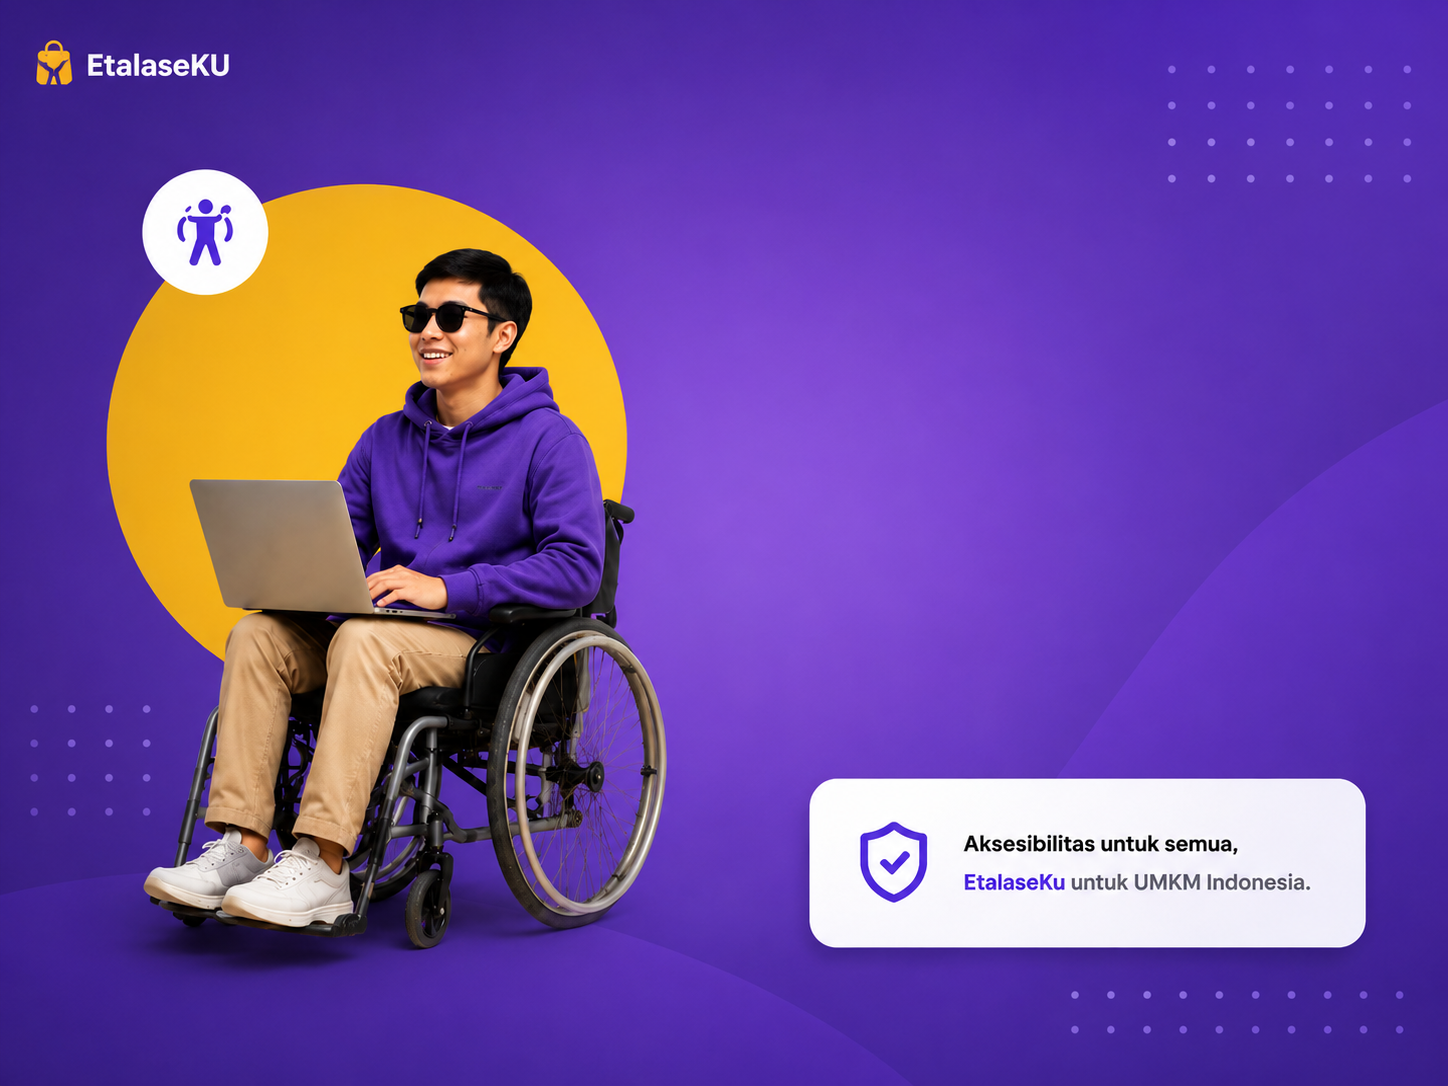
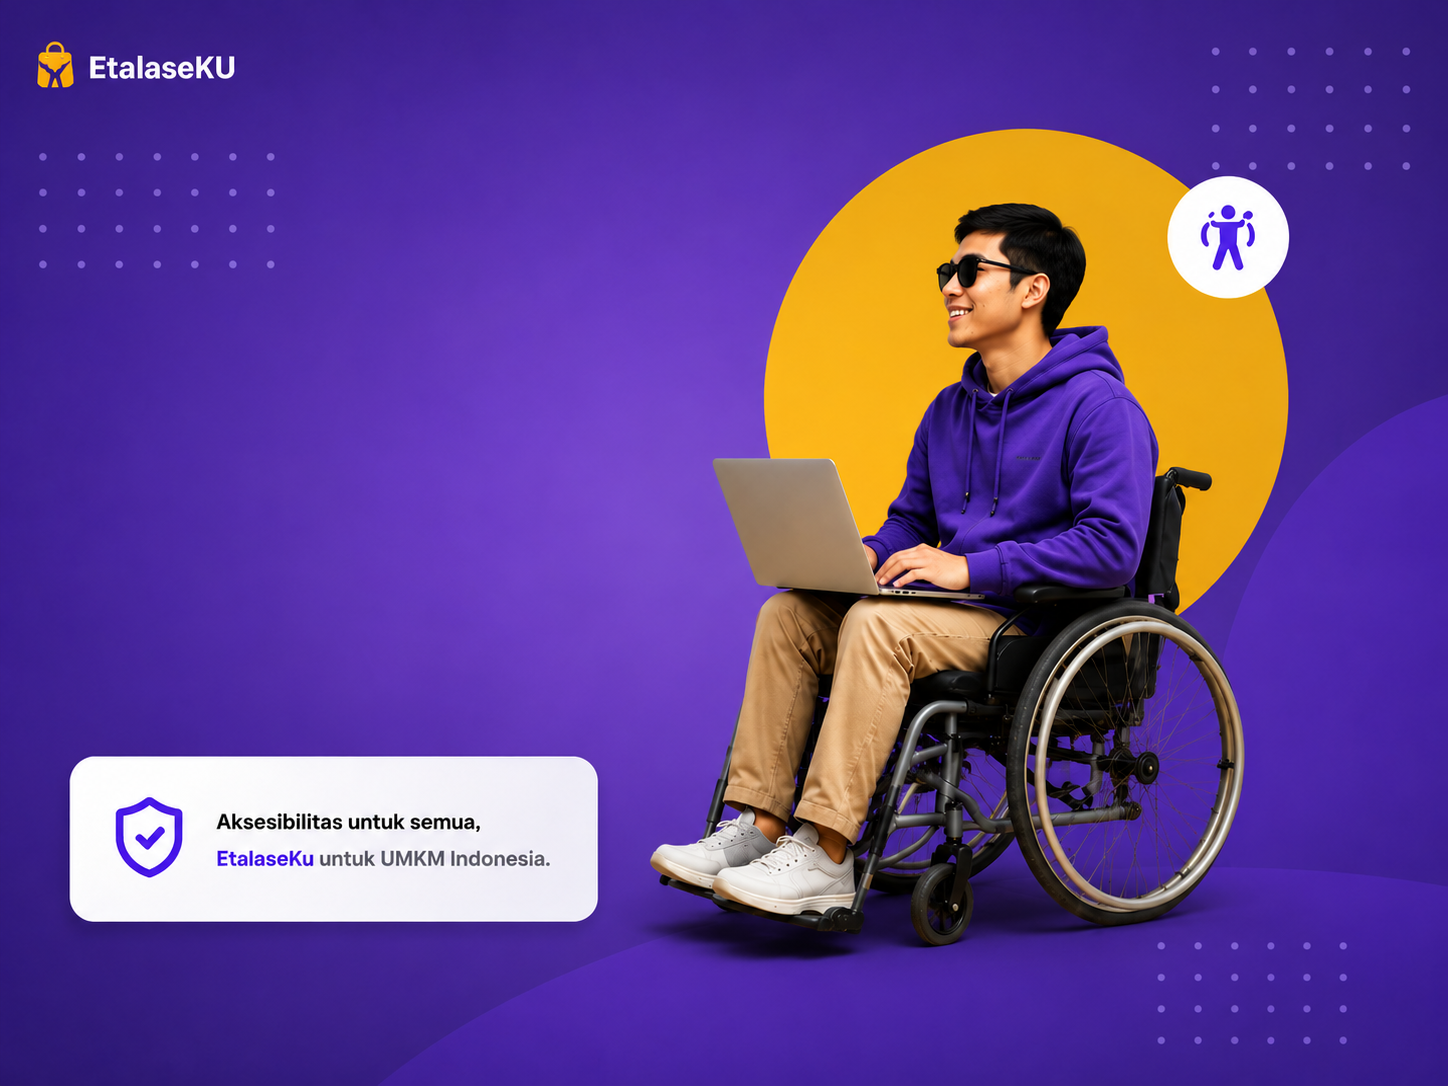
refactor: replace legacy UMKN branding with EtalaseKu

diff --git a/resources/js/Layouts/DashboardLayout.vue b/resources/js/Layouts/DashboardLayout.vue
@@ -75,7 +75,7 @@ function closeSidebar() {
                 class="fixed inset-y-0 left-0 z-50 w-64 bg-surface border-r border-outline flex flex-col md:hidden"
             >
                 <div class="flex items-center justify-between h-16 px-4 border-b border-outline">
-                    <span class="font-bold text-lg text-on-surface">UMKN</span>
+                    <span class="font-bold text-lg text-on-surface">EtalaseKu</span>
                     <button
                         @click="closeSidebar"
                         class="w-10 h-10 rounded-lg flex items-center justify-center hover:bg-surface-container transition-colors"
@@ -131,7 +131,7 @@ function closeSidebar() {
         <!-- Desktop Sidebar -->
         <aside class="hidden md:flex md:flex-col md:w-60 lg:w-64 md:fixed md:inset-y-0 md:border-r md:border-outline md:bg-surface z-30">
             <div class="flex items-center h-16 px-6 border-b border-outline">
-                <span class="font-bold text-xl text-on-surface tracking-tight">UMKN</span>
+                <span class="font-bold text-xl text-on-surface tracking-tight">EtalaseKu</span>
             </div>
             <nav class="flex-1 py-4 px-3 space-y-1 overflow-y-auto">
                 <Link
@@ -187,7 +187,7 @@ function closeSidebar() {
                             <path stroke-linecap="round" stroke-linejoin="round" stroke-width="2" d="M4 6h16M4 12h16M4 18h16" />
                         </svg>
                     </button>
-                    <span class="font-bold text-lg text-on-surface">UMKN</span>
+                    <span class="font-bold text-lg text-on-surface">EtalaseKu</span>
                 </div>
                 <div class="flex items-center gap-1">
                     <button

diff --git a/resources/js/app.js b/resources/js/app.js
@@ -6,7 +6,7 @@ import { createInertiaApp } from '@inertiajs/vue3';
 import { resolvePageComponent } from 'laravel-vite-plugin/inertia-helpers';
 import { ZiggyVue } from '../../vendor/tightenco/ziggy';
 
-const appName = import.meta.env.VITE_APP_NAME || 'UMKN';
+const appName = import.meta.env.VITE_APP_NAME || 'EtalaseKu';
 
 createInertiaApp({
     title: (title) => `${title} - ${appName}`,

diff --git a/resources/js/Pages/Profile/StoreProfile.vue b/resources/js/Pages/Profile/StoreProfile.vue
@@ -83,10 +83,10 @@ function submit() {
 </script>
 
 <template>
-    <Head title="Profil UMKM" />
+    <Head title="Profil EtalaseKu" />
 
     <DashboardLayout activeTab="profile">
-        <template #header>Profil UMKM</template>
+        <template #header>Profil EtalaseKu</template>
 
         <div class="space-y-6 max-w-3xl">
 

diff --git a/resources/js/Pages/Catalog/Show.vue b/resources/js/Pages/Catalog/Show.vue
@@ -173,7 +173,7 @@ function submitCheckout() {
 </script>
 
 <template>
-    <Head :title="merchant.name + ' - Katalog UMKM'" />
+    <Head :title="merchant.name + ' - Katalog EtalaseKu'" />
 
     <div class="min-h-screen bg-surface text-on-surface">
 
